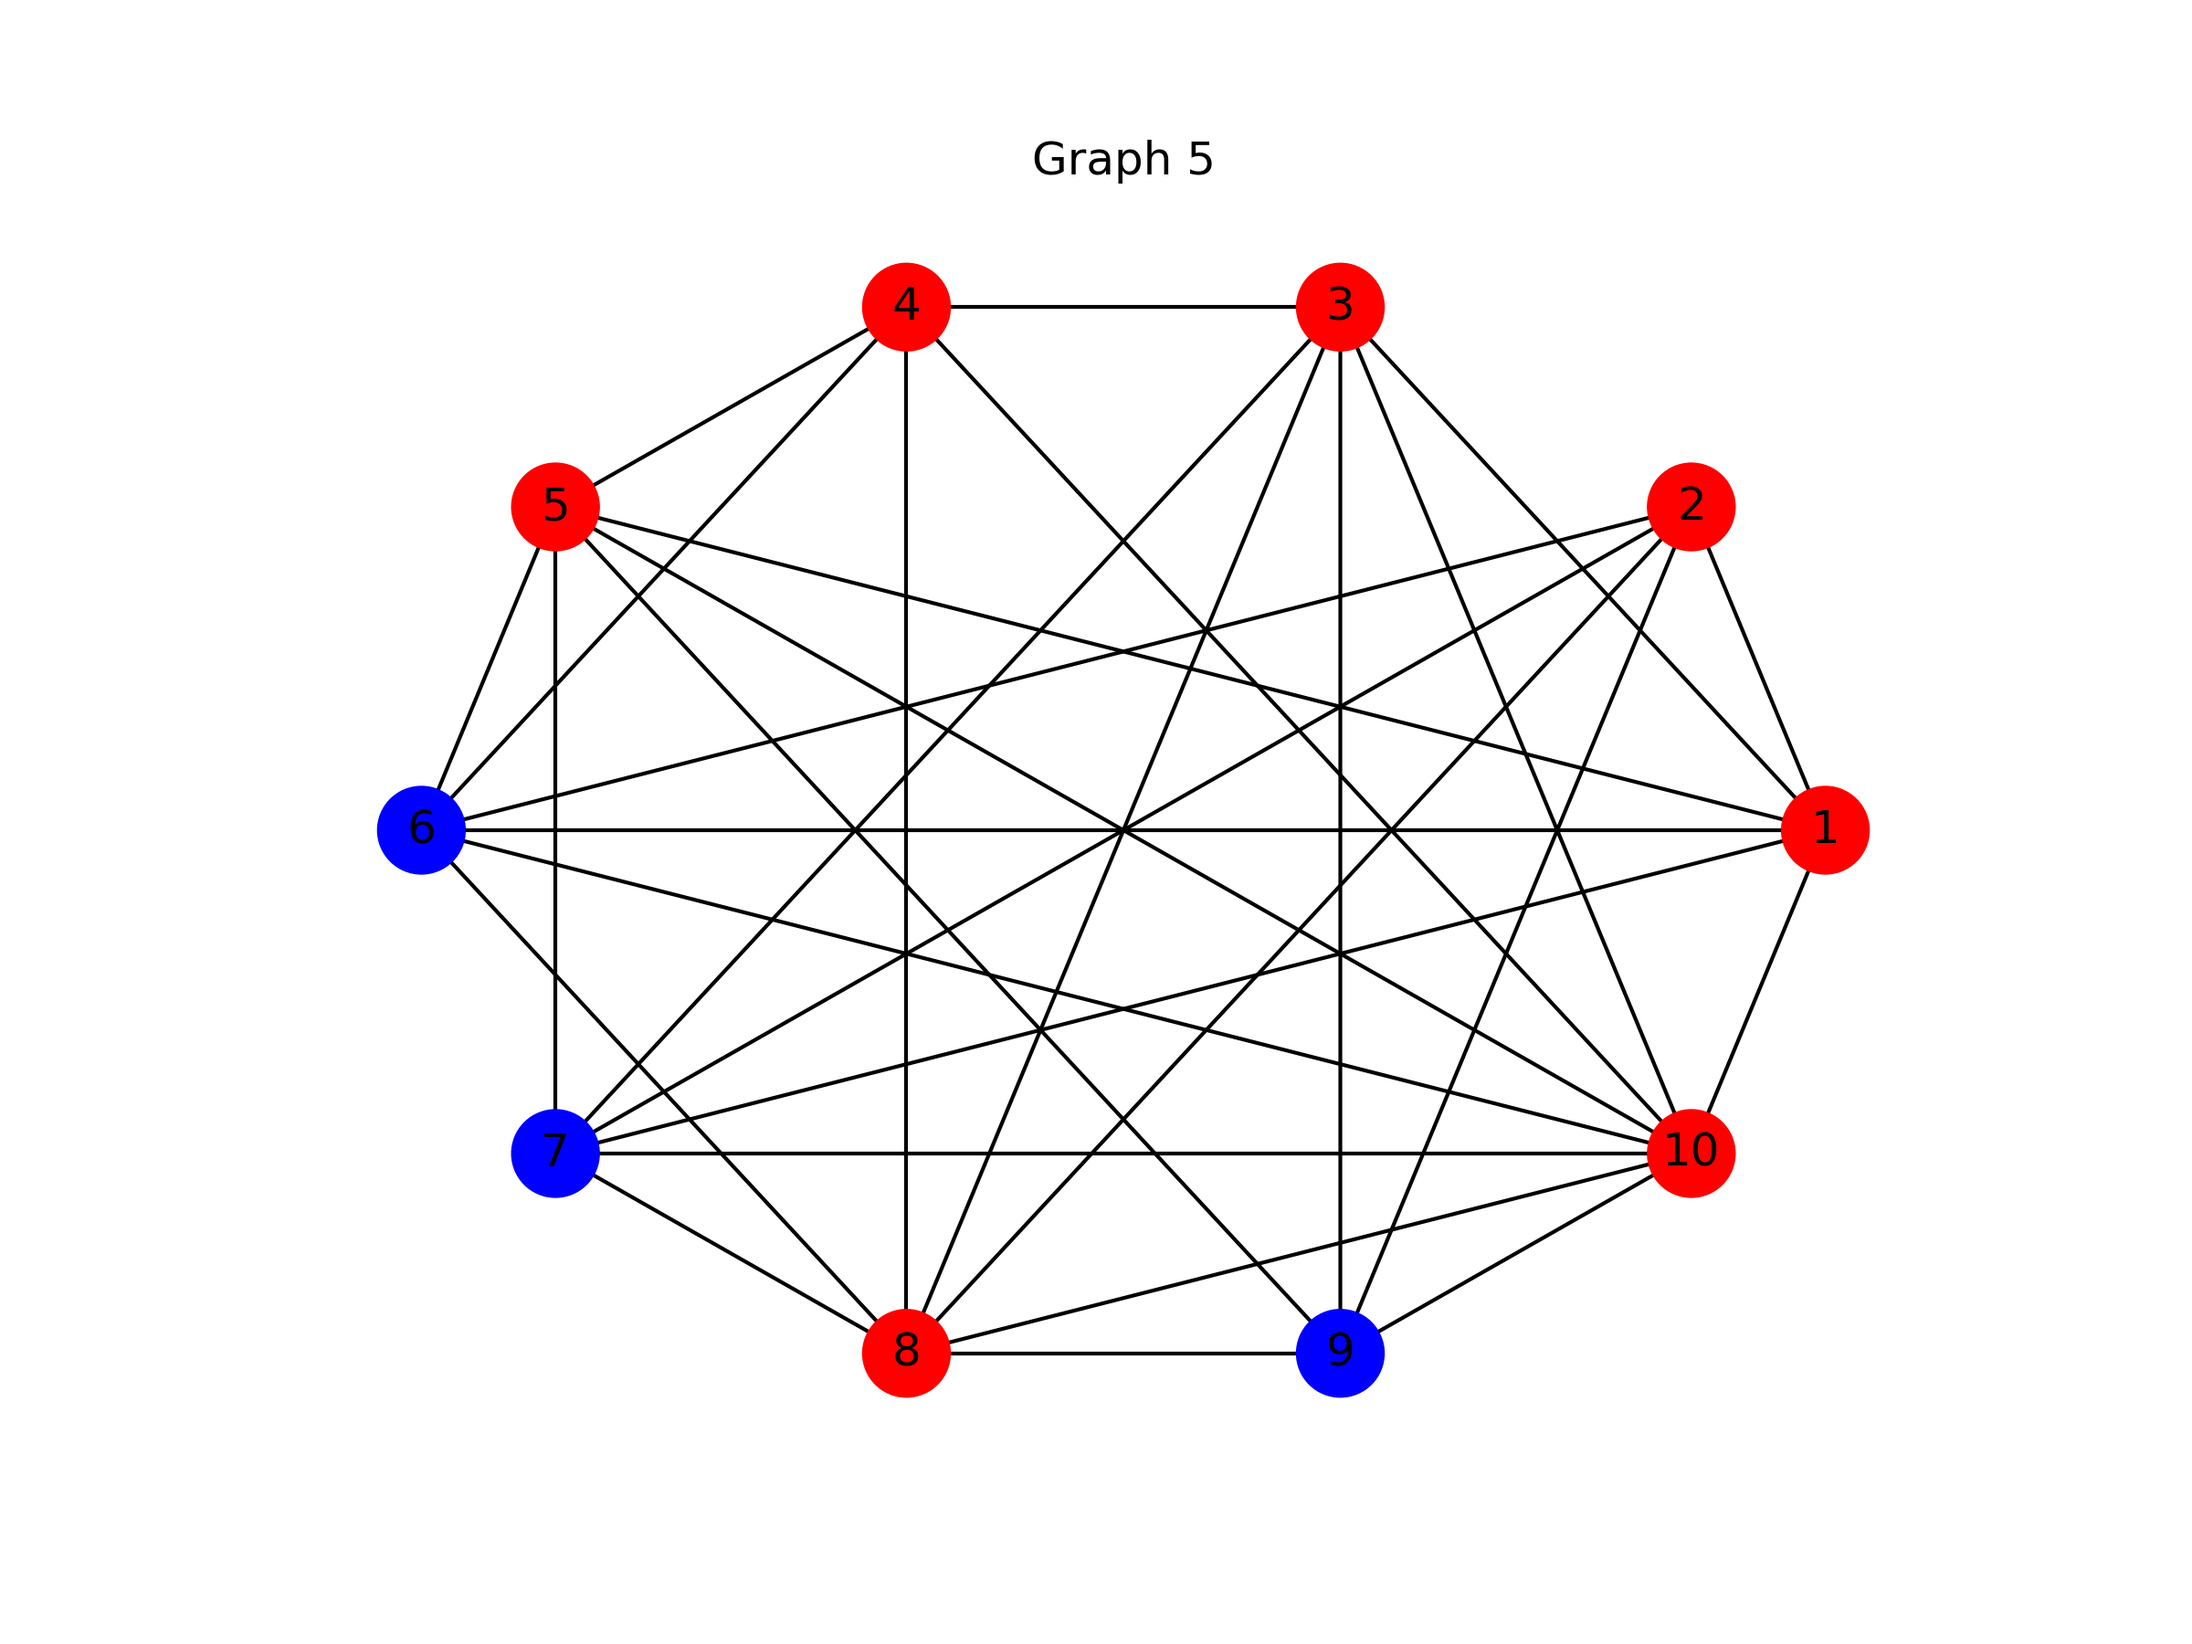
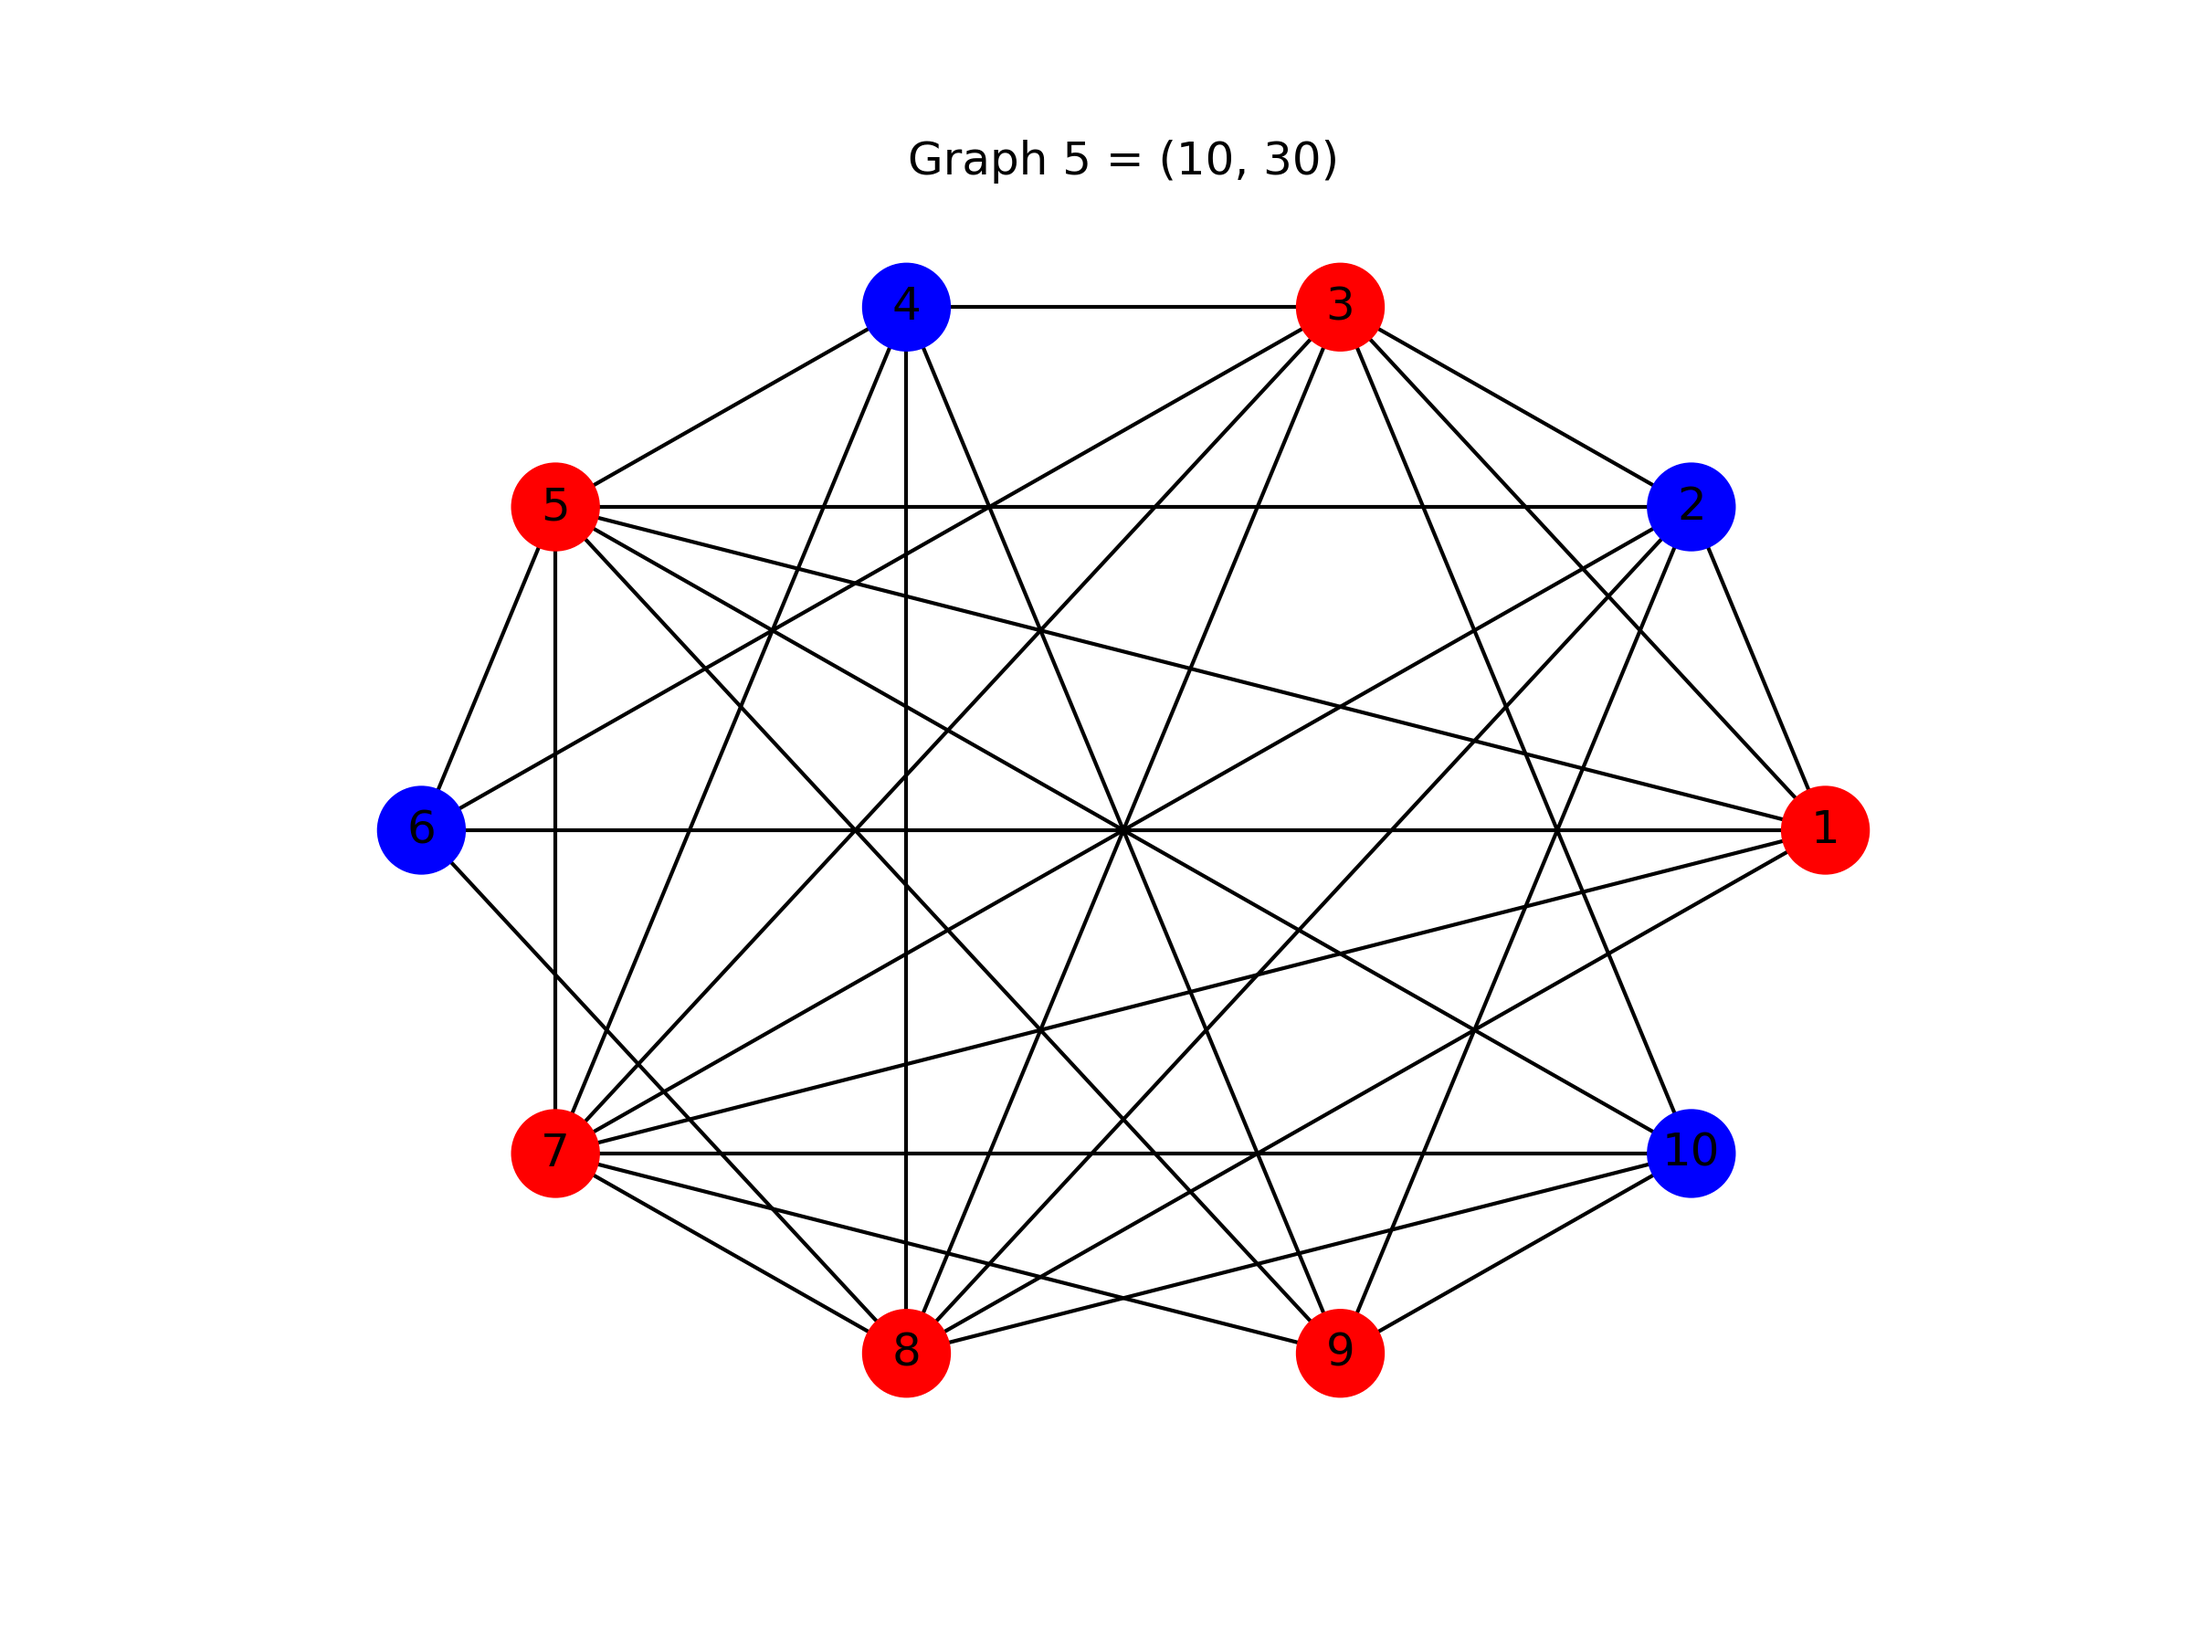
updated

diff --git a/Practical_1/main.py b/Practical_1/main.py
@@ -61,7 +61,7 @@ def read_edges(i):
         edges.append((u, v))
     return edges
 
-def display(n, edges, i):
+def display(n, m, edges, i):
     G = nx.Graph()
     vertices = [i+1 for i in range(n)]
     G.add_nodes_from(vertices)
@@ -82,10 +82,10 @@ def display(n, edges, i):
             color.append('blue')
     
     plt.figure(figsize=(8, 6))
-    pos = nx.circular_layout(G)
-    plt.title(f"Graph {i}")
+    coordinates = nx.circular_layout(G)
+    plt.title(f"Graph {i} = {n,m}")
     nx.draw(
-        G,pos,
+        G,coordinates,
         with_labels=True,node_color=color, node_size=500,
     )
     plt.savefig(f'Visualize/graph{i}.png', dpi=300)
@@ -97,5 +97,5 @@ for m in range(10,46,5):
     edges = generate_edges(n, m)
     write_edges(n, m, edges,i)
     edges = read_edges(i)
-    display(n, edges, i)
+    display(n, m, edges, i)
     i += 1
